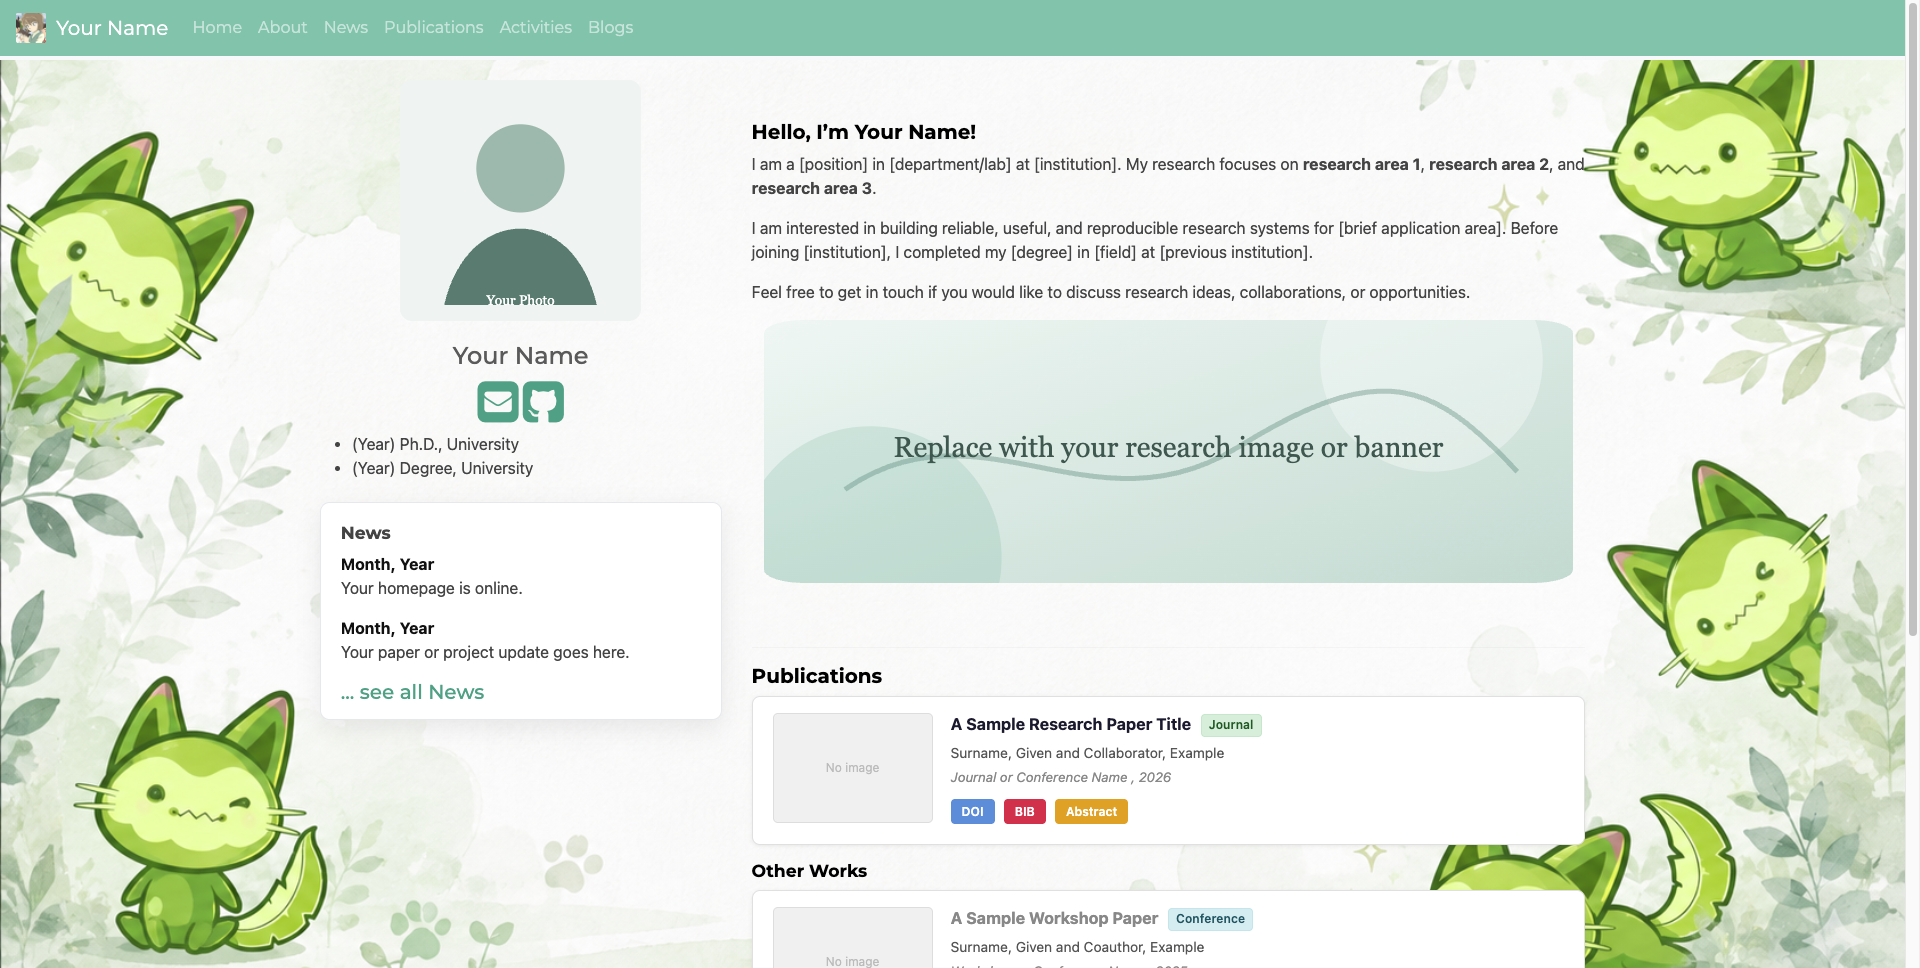
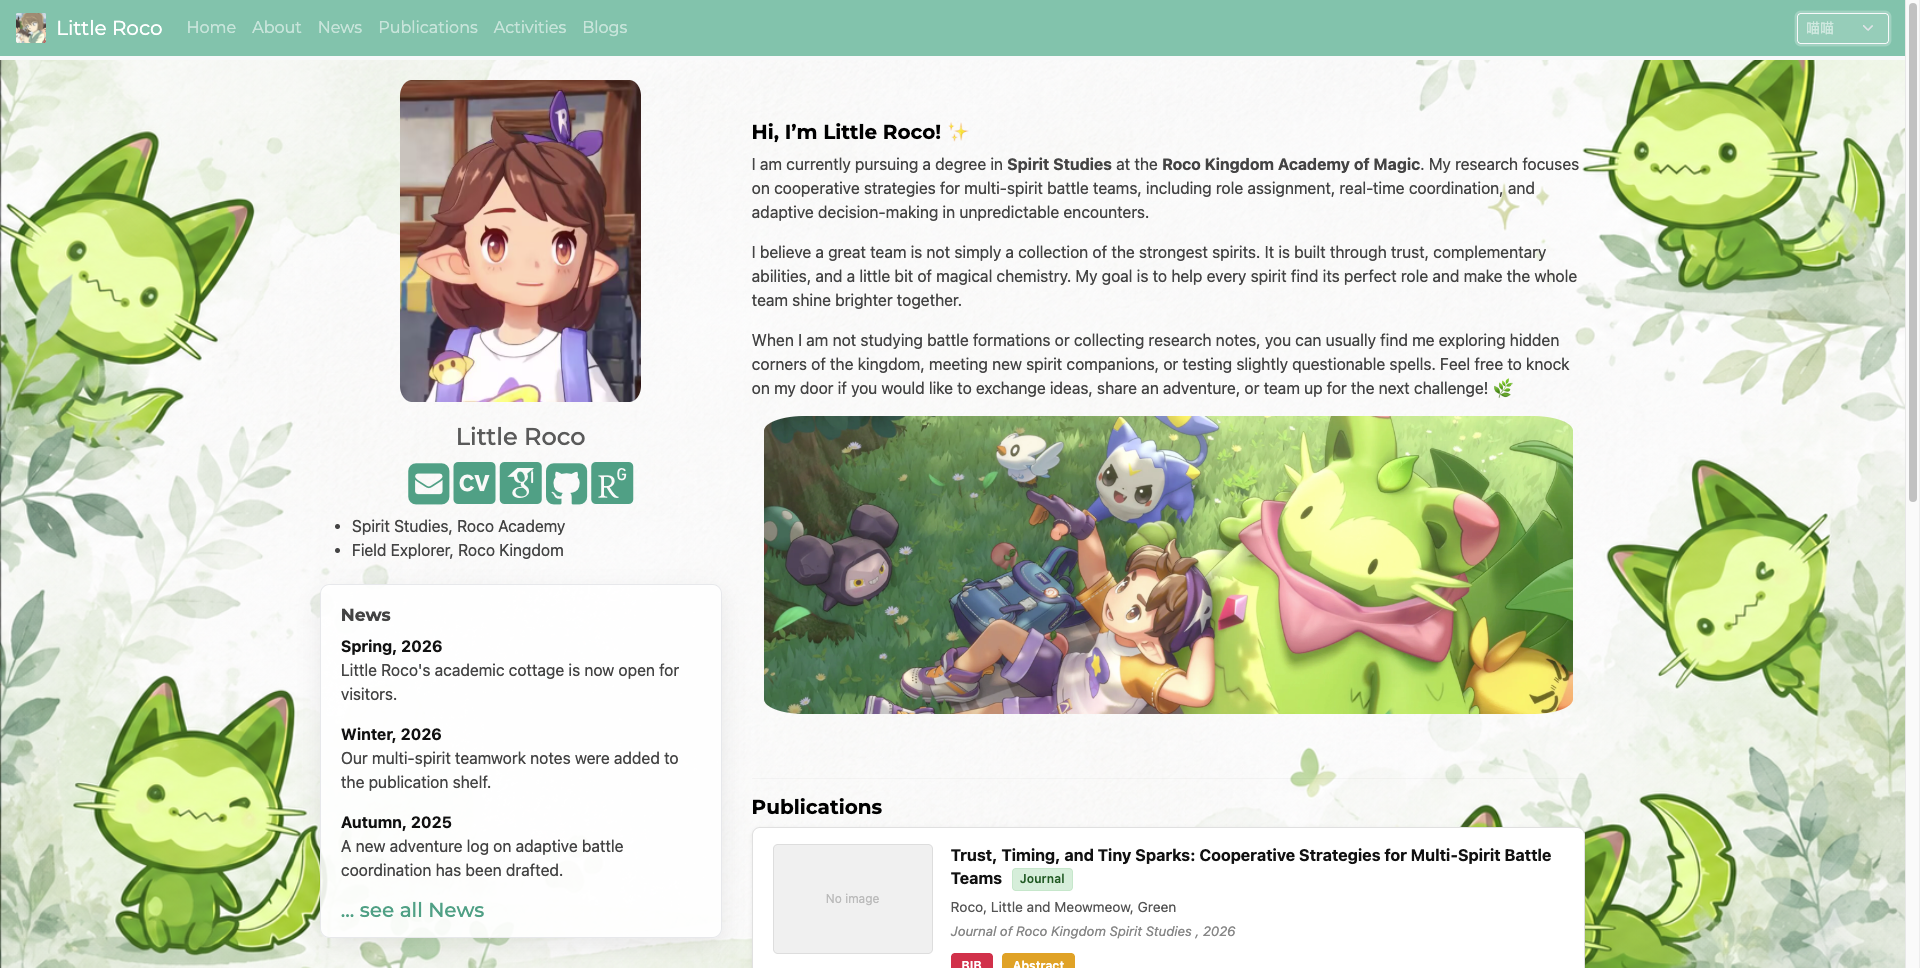
feat: polish Roco themed site

diff --git a/_sass/SHB_css.scss b/_sass/SHB_css.scss
@@ -47,6 +47,36 @@ body[data-theme="huohua"] {
   --muted-text-color: #6b4a3b;
 }
 
+body[data-theme="maodou"] {
+  --page-bg-color: #fff2f7;
+  --page-bg-image: url(#{$baseurl + "/images/maodou.png"});
+  --navbar-bg: #e58bae;
+  --navbar-border: #ffd4e5;
+  --navbar-brand-color: #ffffff;
+  --navbar-link-color: #fff7fb;
+  --navbar-link-hover-color: #ffffff;
+  --link-color: #c95f8c;
+  --link-hover-color: #9f3f69;
+  --card-bg: rgba(255, 255, 255, 0.9);
+  --text-color: #321624;
+  --muted-text-color: #75465a;
+}
+
+body[data-theme="emoding"] {
+  --page-bg-color: #f6efe6;
+  --page-bg-image: url(#{$baseurl + "/images/emoding.png"});
+  --navbar-bg: #7a4d2f;
+  --navbar-border: #d2b08a;
+  --navbar-brand-color: #fff7ef;
+  --navbar-link-color: #f5e3d1;
+  --navbar-link-hover-color: #ffffff;
+  --link-color: #8a5a36;
+  --link-hover-color: #5c351f;
+  --card-bg: rgba(255, 252, 247, 0.9);
+  --text-color: #2f2118;
+  --muted-text-color: #6a5141;
+}
+
 body {
   min-height: 100vh;
   color: var(--text-color);

diff --git a/_pages/about.md b/_pages/about.md
@@ -5,14 +5,14 @@ sitemap: false
 permalink: /about/
 ---
 
-## About
+## About Little Roco
 
 {% for member in site.data.pi %}
 
 <div class="jumbotron">
 <div class="row">
 <div class="col-sm-3">
-  <img src="{{ site.url }}{{ site.baseurl }}/images/{{ member.photo }}" width="100%" style="max-width:250px"/>
+  <img src="{{ "/images/" | append: member.photo | relative_url }}" width="100%" style="max-width:250px"/>
 </div>
 <div class="col-sm-9 col-xs-12" style="top: 10px">
   
@@ -20,10 +20,18 @@ permalink: /about/
   
   <h5><i>{{ member.info }}</i></h5>
   {% if member.email %}<a href="mailto:{{ member.email }}" target="_blank"><i class="fa fa-envelope-square fa-3x"></i></a> {% endif %}
-  {% if member.cv %} <a href="{{ site.url }}{{ site.baseurl }}/{{ member.cv }}" target="_blank"><i class="ai ai-cv-square ai-3x"></i></a> {% endif %}
+  {% if member.cv %} <a href="{{ member.cv | relative_url }}" target="_blank"><i class="ai ai-cv-square ai-3x"></i></a> {% endif %}
   {% if member.scholar %} <a href="{{ member.scholar }}" target="_blank"><i class="ai ai-google-scholar-square ai-3x"></i></a> {% endif %}
   {% if member.github %} <a href="{{ member.github }}" target="_blank"><i class="fa fa-github-square fa-3x"></i></a> {% endif %}
   {% if member.researchgate %} <a href="{{ member.researchgate }}" target="_blank"><i class="ai ai-researchgate-square ai-3x"></i></a> {% endif %}
+
+  <p>
+    Little Roco studies how spirit companions form reliable teams in a kingdom full of surprises. The work blends magical field observation, cooperative battle strategy, and a healthy respect for spells that may or may not behave as expected.
+  </p>
+
+  <p>
+    The long-term goal is simple: help every spirit discover its best role, support its teammates, and shine brighter as part of a thoughtful, well-coordinated team.
+  </p>
 
   <ul style="overflow: hidden">
     {% for education in member.education %}
@@ -36,48 +44,24 @@ permalink: /about/
 </div>
 {% endfor %}
 
-{% if site.data.grants %}
-
 <div class="jumbotron">
-  <h3>Grants</h3>
+  <h3>Research Interests</h3>
   <ul>
-    {% for grant in site.data.grants %}
-      <li>{{ grant.name }}</li>
-    {% endfor %}
+    <li>Multi-spirit team coordination and role assignment.</li>
+    <li>Adaptive decision-making during unpredictable magical encounters.</li>
+    <li>Trust, complementary abilities, and magical chemistry in collaborative teams.</li>
+    <li>Readable field notes and reproducible spell experiments.</li>
   </ul>
 </div>
-{% endif %}
 
 {% if site.data.awards %}
 
 <div class="jumbotron">
-  <h3>Awards</h3>
+  <h3>Awards & Badges</h3>
   <ul>
     {% for award in site.data.awards %}
       <li>{{ award.name | replace: "-","&#8211;" }}</li>
     {% endfor %}
   </ul>
-</div>
-{% endif %}
-
-{% if site.data.people %}
-
-<div class="jumbotron">
-  <h3>Students and Mentoring</h3>
-  <ul>
-    {% for student in site.data.people %}
-      <li>{{ student.name }}, {{ student.location }} ({{ student.degree }}, {{ student.year }})</li>
-    {% endfor %}
-  </ul>
-</div>
-{% endif %}
-
-
-{% if site.data.funders %}
-<div class="jumbotron">
-  <h4>Sponsors</h4>
-  <div style='display:block; text-align:center; margin-left:auto; margin-right:auto;'>
-  {% for funder in site.data.funders %}<a href="{{ funder.url }}" target="_blank"><img src='{{ site.url }}{{ site.baseurl }}/images/{{ funder.image }}' style='max-height: 80px; max-width: 200px; margin: 1%'/></a>{% endfor %}
-  </div>
 </div>
 {% endif %}

diff --git a/README.md b/README.md
@@ -1,10 +1,27 @@
-# ROCO Academic Homepage Template
+<div align="center">
 
-一套带点“洛克王国”气质的 Jekyll 学术主页模板：清爽、可爱，适合展示个人介绍、论文、项目、博客和学术活动。你可以把它当成自己的“学术小屋”——填入资料、挂上成果，再让绿色小伙伴当背景守护灵。
+# 🌿 ROCO Academic Homepage Template ✨
+
+### 把学术旅程，装进一座会发光的小屋
+
+一款带着「洛克王国」气息的 Jekyll 学术主页模板。
+
+在这里，论文是一路收集的徽章，项目是刚刚解锁的新地图，  
+博客是冒险手记，而每一条学术动态，都是旅途中闪闪发亮的小事件。⭐
+
+不用和复杂的前端魔法缠斗——  
+填好资料、换上头像、推送到 GitHub Pages，  
+你的专属学术小屋就可以正式开门营业啦！🏡
+
+[🌐 在线逛逛](https://sxswz213.github.io/)
+
+<br>
 
 [![ROCO Academic Homepage Template 示例](example.png)](https://sxswz213.github.io/)
 
-在线示例：<https://sxswz213.github.io/>
+<sub>🌱 愿每一份认真做出的研究，都能拥有一个可爱又体面的展示角落。</sub>
+
+</div>
 
 ## 模板来源
 
@@ -16,8 +33,12 @@
 - 通过 `_config.yml` 管理站点标题、导航栏、联系方式和页脚。
 - 通过 `_data/*.yml` 管理新闻、成员、奖项、服务活动等内容。
 - 通过 `assets/ref.bib` 和 `jekyll-scholar` 管理论文列表。
-- 内置三个主题：`喵喵` 使用 `images/miaomiao.png`，`水蓝蓝` 使用 `images/shuilanlan.png`，`火花` 使用 `images/huohua.png`。
-- 页面右上角可一键切换主题，并自动记住上次选择。
+- 内置五个洛克王国主题，可在页面右上角一键切换，并自动记住上次选择：
+  - `喵喵`：默认绿色主题，背景图为 `images/miaomiao.png`。
+  - `水蓝蓝`：蓝色主题，背景图为 `images/shuilanlan.png`。
+  - `火花`：橙红色主题，背景图为 `images/huohua.png`。
+  - `大耳帽兜`：粉色主题，背景图为 `images/maodou.png`。
+  - `恶魔叮`：棕色主题，背景图为 `images/emoding.png`。
 
 ## 使用方式
 
@@ -47,12 +68,14 @@ bundle exec jekyll build
 
 ## 快速定制
 
-1. 修改 `_config.yml`：站点标题、邮箱、机构、URL 和导航栏。
-2. 修改 `_data/pi.yml`：个人简介、教育经历、主页链接和 CV 路径。
-3. 替换 `images/profile-placeholder.svg`：头像或实验室 logo。
-4. 替换 `images/miaomiao.png`、`images/shuilanlan.png` 或 `images/huohua.png`：对应主题的页面背景图。
-5. 修改 `assets/ref.bib`：添加论文 BibTeX。
-6. 修改 `_data/`、`_pages/`、`_posts/`：更新新闻、页面和博客内容。
+1. 修改 `_config.yml`：站点标题、邮箱、机构、URL、导航栏和默认主题 `theme_style`。
+2. 修改 `_data/pi.yml`：个人简介、教育经历、主页链接、Google Scholar、ResearchGate 和 CV 路径。
+3. 替换 `images/profile.jpg`：主页头像。
+4. 替换 `images/banner.jpg`：主页横幅。
+5. 替换 `images/miaomiao.png`、`images/shuilanlan.png`、`images/huohua.png`、`images/maodou.png` 或 `images/emoding.png`：对应主题的页面背景图。
+6. 修改 `_data/themes.yml`：调整主题显示名；修改 `_sass/SHB_css.scss`：调整主题颜色。
+7. 修改 `assets/ref.bib`：添加论文 BibTeX。
+8. 修改 `_data/`、`_pages/`、`_posts/`：更新新闻、页面和博客内容。
 
 ## 许可证
 

diff --git a/_pages/home.md b/_pages/home.md
@@ -15,27 +15,29 @@ permalink: /
   color: #3f9f86;
 }
 
-.home-intro h3 {
+.home-intro h2 {
+  font-size: 1.25rem;
+  font-weight: 700;
   color: #000;
 }
 </style>
 
 <div class="home-intro" markdown="1">
 
-### Hello, I'm Your Name!
+## Hi, I’m Little Roco! ✨
 
-I am a [position] in [department/lab] at [institution]. My research focuses on **research area 1**, **research area 2**, and **research area 3**.
+I am currently pursuing a degree in **Spirit Studies** at the **Roco Kingdom Academy of Magic**. My research focuses on cooperative strategies for multi-spirit battle teams, including role assignment, real-time coordination, and adaptive decision-making in unpredictable encounters.
 
-I am interested in building reliable, useful, and reproducible research systems for [brief application area]. Before joining [institution], I completed my [degree] in [field] at [previous institution].
+I believe a great team is not simply a collection of the strongest spirits. It is built through trust, complementary abilities, and a little bit of magical chemistry. My goal is to help every spirit find its perfect role and make the whole team shine brighter together.
 
-Feel free to get in touch if you would like to discuss research ideas, collaborations, or opportunities.
+When I am not studying battle formations or collecting research notes, you can usually find me exploring hidden corners of the kingdom, meeting new spirit companions, or testing slightly questionable spells. Feel free to knock on my door if you would like to exchange ideas, share an adventure, or team up for the next challenge! 🌿
 
 </div>
 
 <div class="container">
 <div class="row">
 <center>
-<img src="{{ "/images/banner-placeholder.svg" | relative_url }}" width="100%" style="opacity: 0.9;"/><br/>
+<img src="{{ "/images/banner.jpg" | relative_url }}" width="100%" style="opacity: 0.9;"/><br/>
   <br/>
 </center>
 </div>
@@ -57,7 +59,7 @@ Feel free to get in touch if you would like to discuss research ideas, collabora
 
 ---
 
-### [Academic Services & Activities](/services/)
+### [Kingdom Activities](/services/)
 
 <div class="home-services">
 {% for group in site.data.academic_services %}

diff --git a/_pages/blogs.md b/_pages/blogs.md
@@ -1,14 +1,16 @@
 ---
-title: "Blog"
+title: "Adventure Logs"
 layout: page
 sitemap: false
 permalink: /blogs/
 ---
 
+Short notes from the road: research thoughts, kingdom fieldwork, and tiny discoveries made between one magical detour and the next.
+
 <ul>
   {% for post in site.posts %}
     <li>
-      {{ post.date | date_to_string }}: <a href="{{ site.url }}{{ site.baseurl }}{{ post.url }}">{{ post.title}}</a>
+      {{ post.date | date_to_string }}: <a href="{{ post.url | relative_url }}">{{ post.title}}</a>
     </li>
   {% endfor %}
 </ul>

diff --git a/_posts/2026-01-01-welcome.md b/_posts/2026-01-01-welcome.md
@@ -1,8 +1,8 @@
 ---
+title: "The Academic Cottage Opens"
 layout: post
-title: "Welcome to My Academic Homepage"
-date: 2026-01-01
-categories: "News"
 ---
 
-This is a sample blog post. Replace it with news, notes, or project updates.
+Welcome to Little Roco's academic cottage. This space collects research notes, spirit-team strategies, small experiments, and adventure logs from across the Roco Kingdom.
+
+The first quest is simple: make serious work easier to find, easier to read, and a little more delightful to visit.

diff --git a/_pages/services.md b/_pages/services.md
@@ -1,13 +1,16 @@
 ---
-title: "Academic Services & Activities"
+title: "Activities"
 layout: gridlay
 sitemap: false
 permalink: /services/
 ---
 
-## Academic Services & Activities
+## Kingdom Activities
 
 <div class="jumbotron">
+<p>
+  Outside the main research quests, Little Roco helps review young trainers' ideas, organizes small strategy workshops, and collects field notes from magical corners of the kingdom.
+</p>
 {% for group in site.data.academic_services %}
 <h4>{{ group.section }}</h4>
 <ul>

diff --git a/_pages/publications.md b/_pages/publications.md
@@ -1,11 +1,15 @@
 ---
-title: "Publications"
+title: "Research Notes"
 layout: gridlay
 sitemap: false
 permalink: /publications/
 ---
 
-## Publications
+## Research Notes & Publications
+
+<div class="jumbotron">
+These are Little Roco's research scrolls on spirit teamwork, battle coordination, and the occasional questionable spell that somehow became useful.
+</div>
 
 {% bibliography --query @*[keywords ^= main] %}
 
